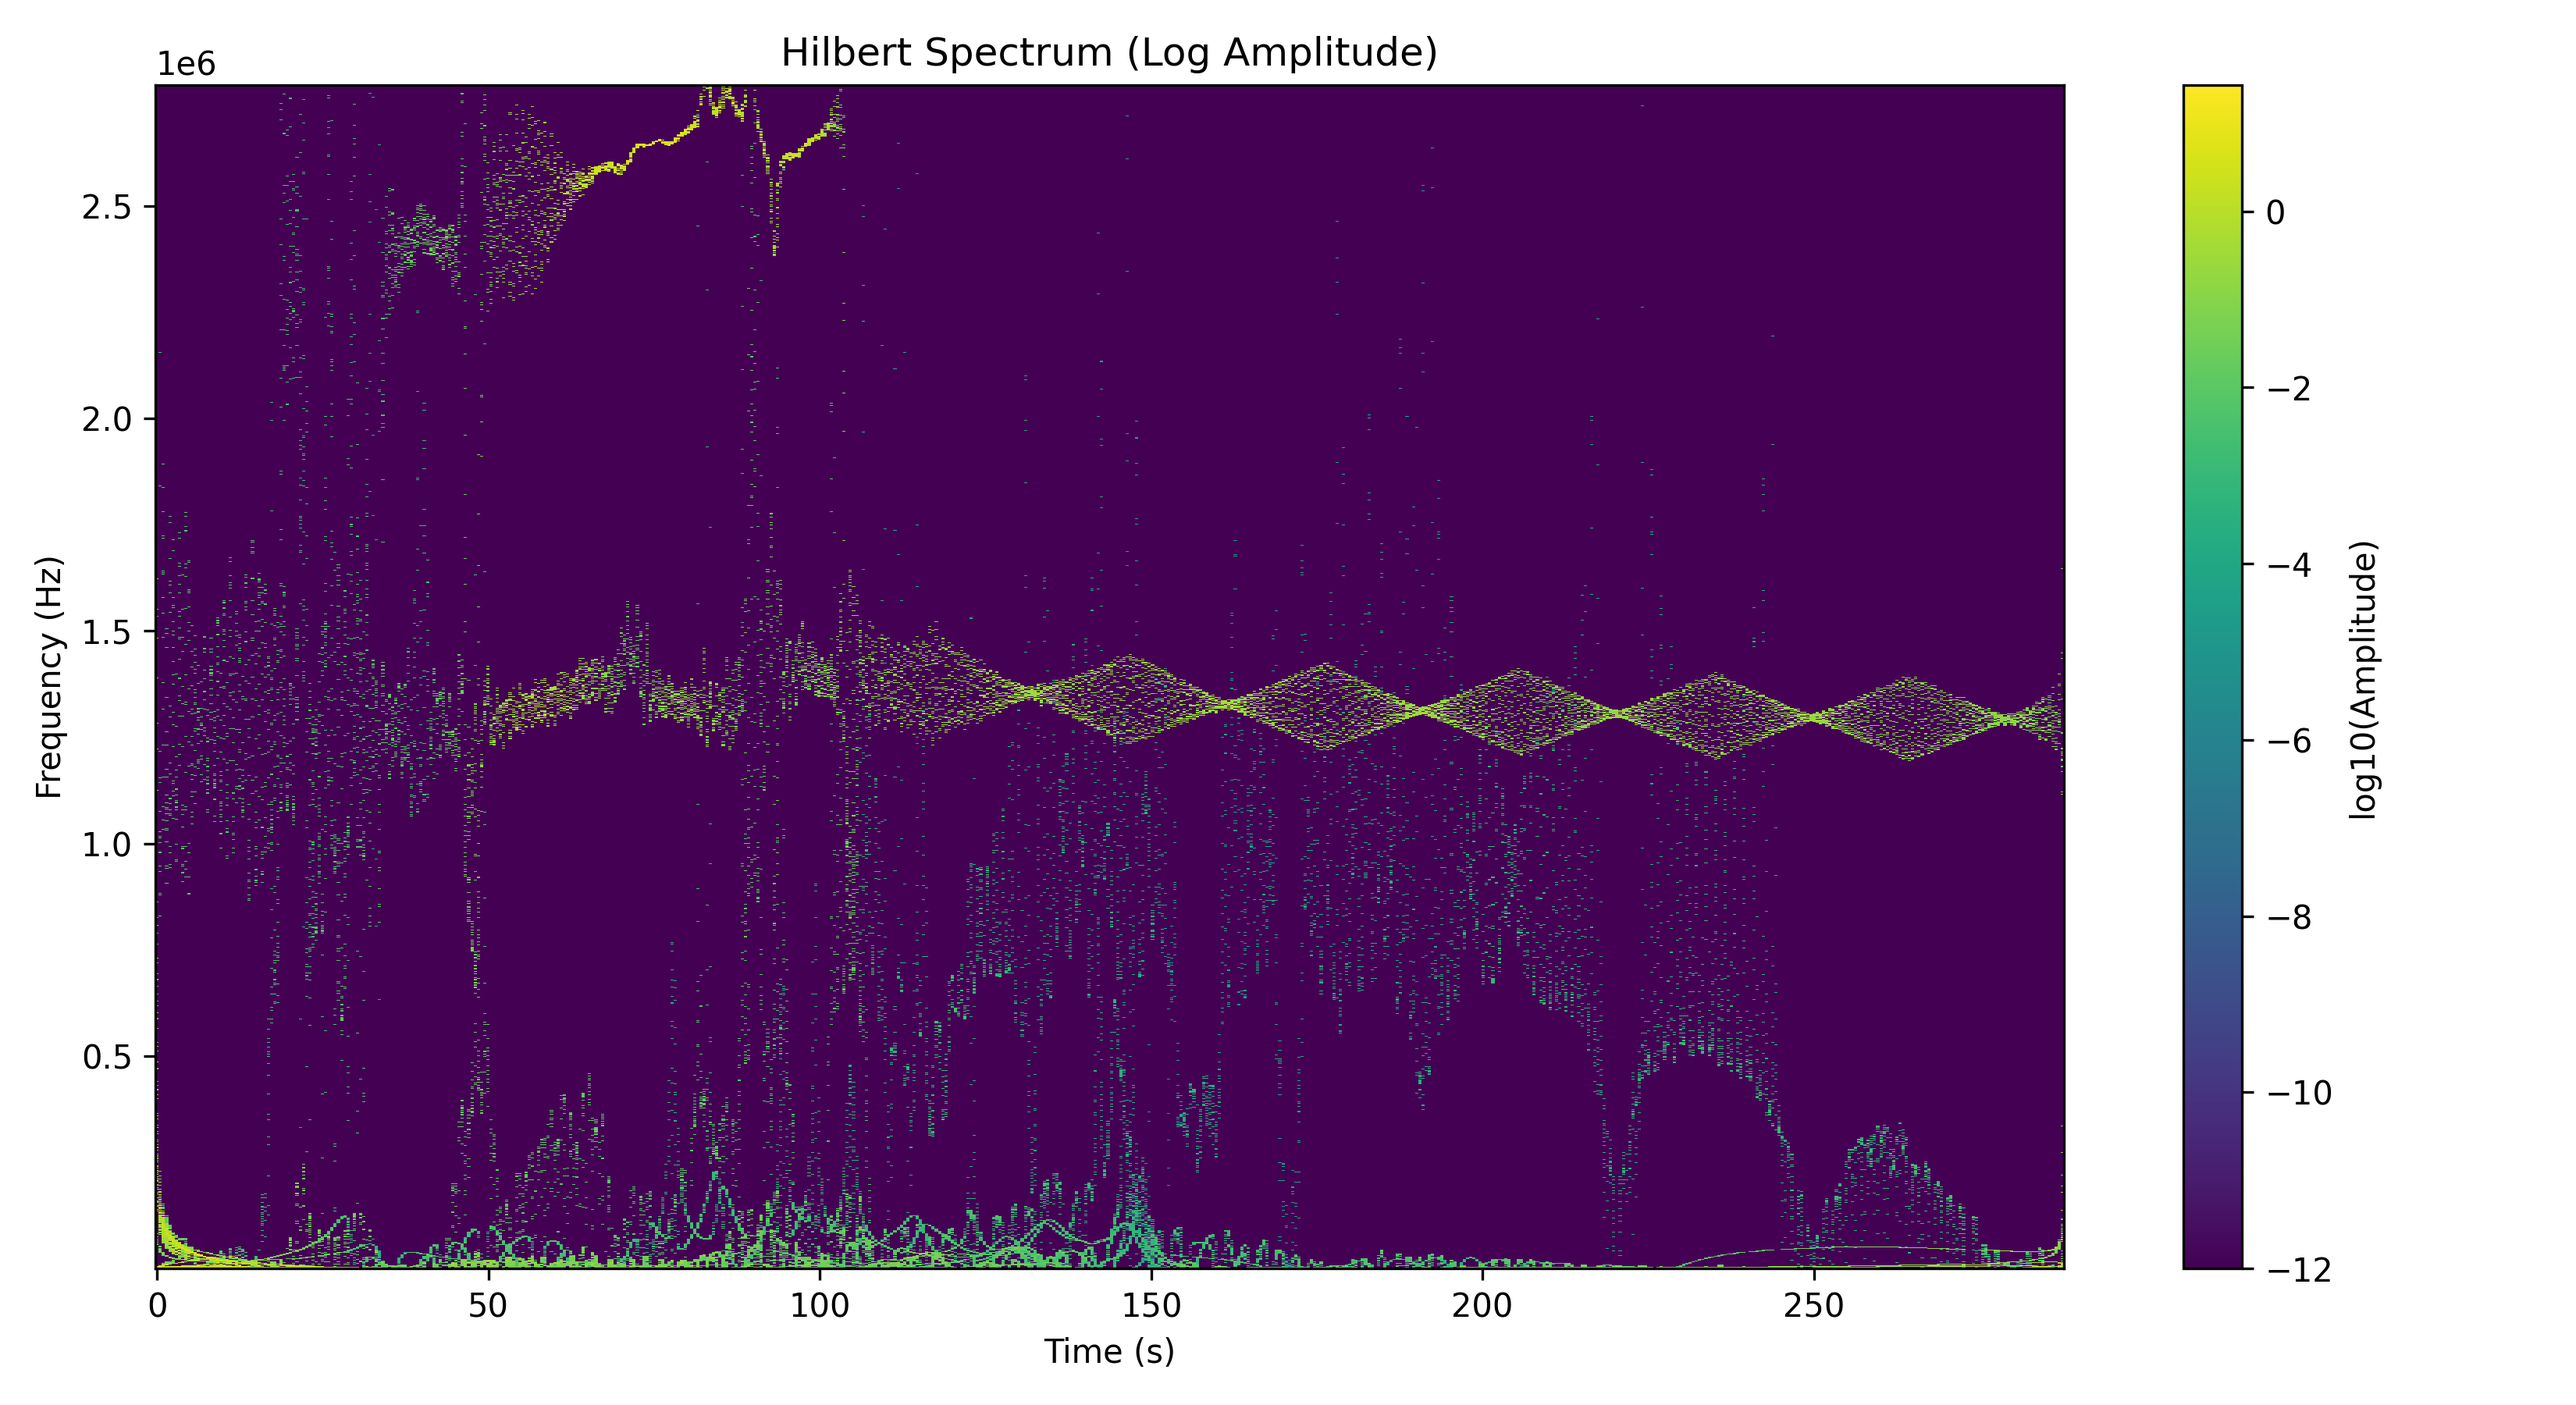
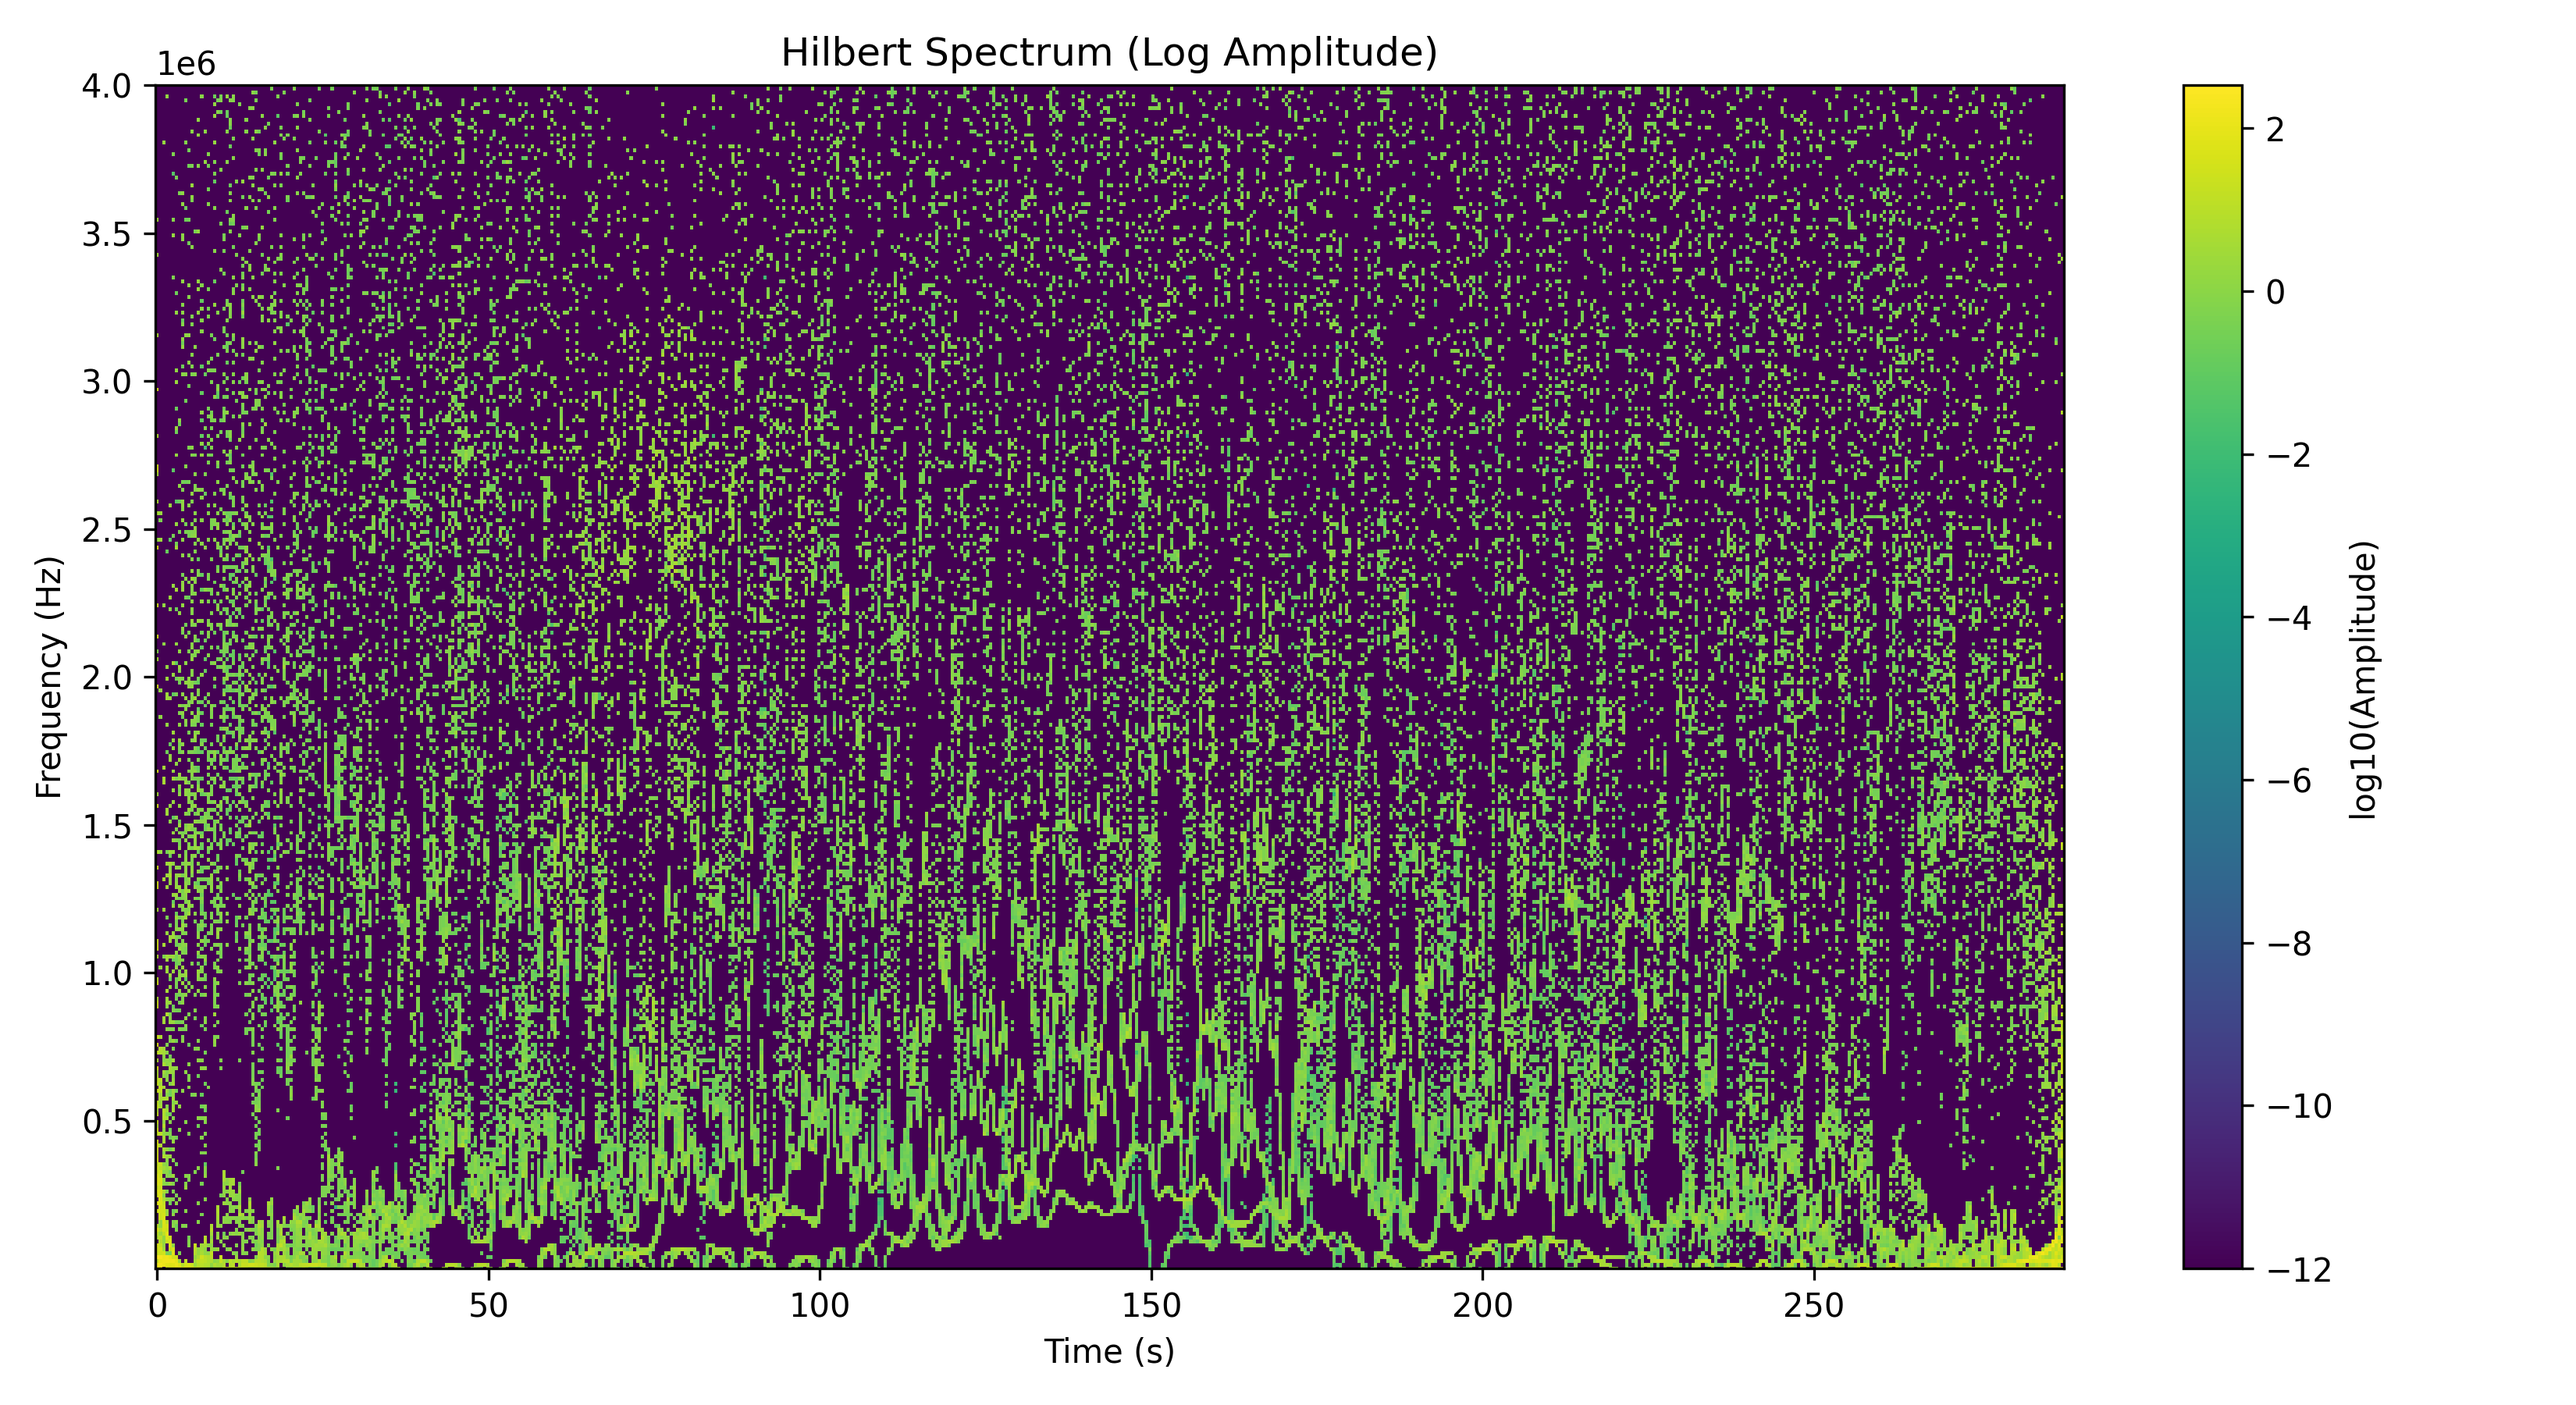
saves

diff --git a/Energy_conserv.py b/Energy_conserv.py
@@ -49,7 +49,7 @@ modes_base = ["S2 Propagated signal (nm)", "A1 Propagated signal (nm)",
                   ]
 
 
-noise_level = 0
+noise_level = 1.5
  #Noise Level: 0 == 0%, 1.5 == 150%, should not be larger than 1.5
 beta = 6 #Non_Linearity Parameter: Realistic Range 6-12
 
